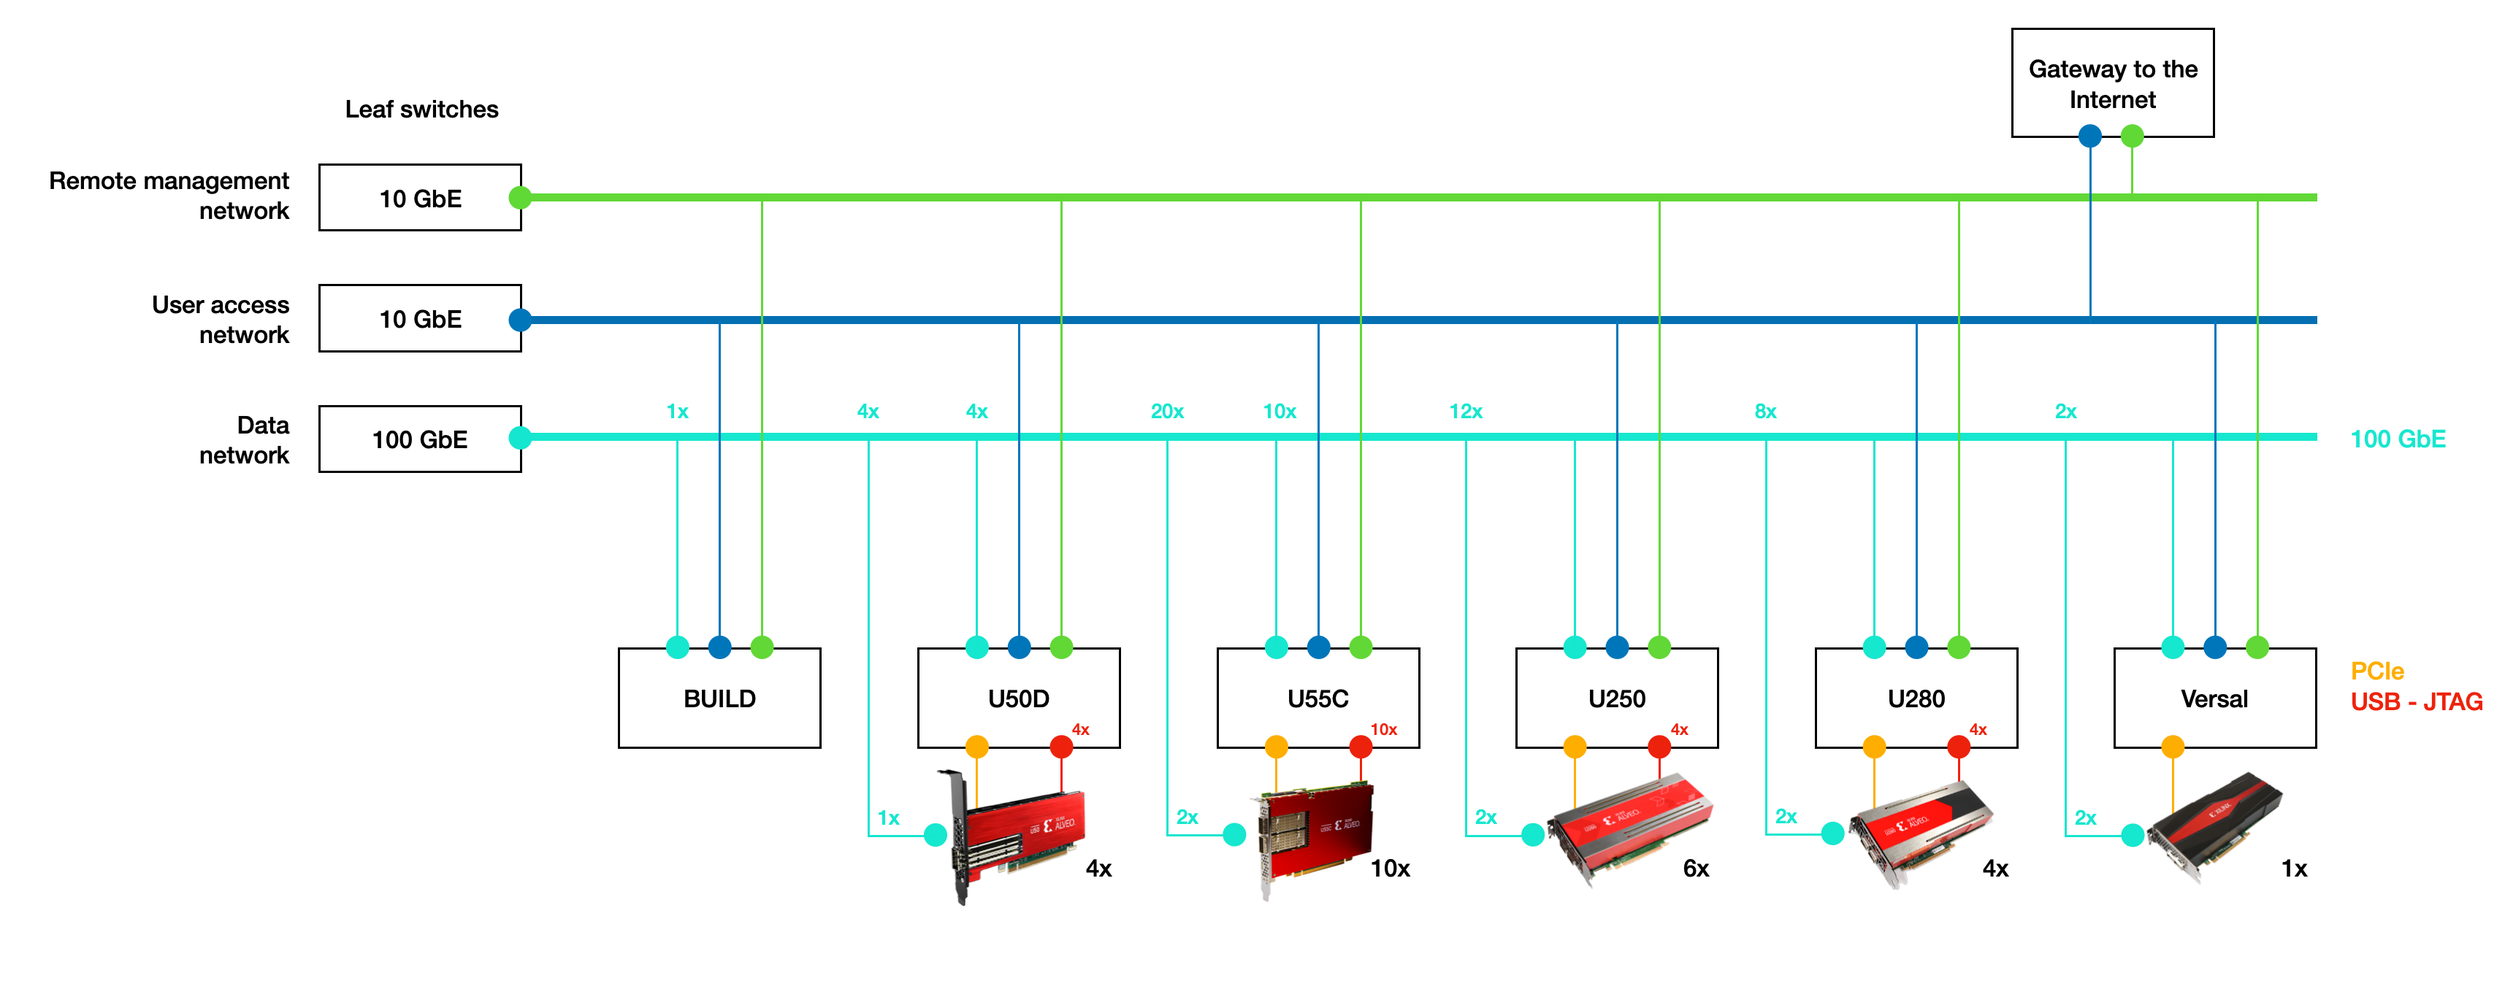
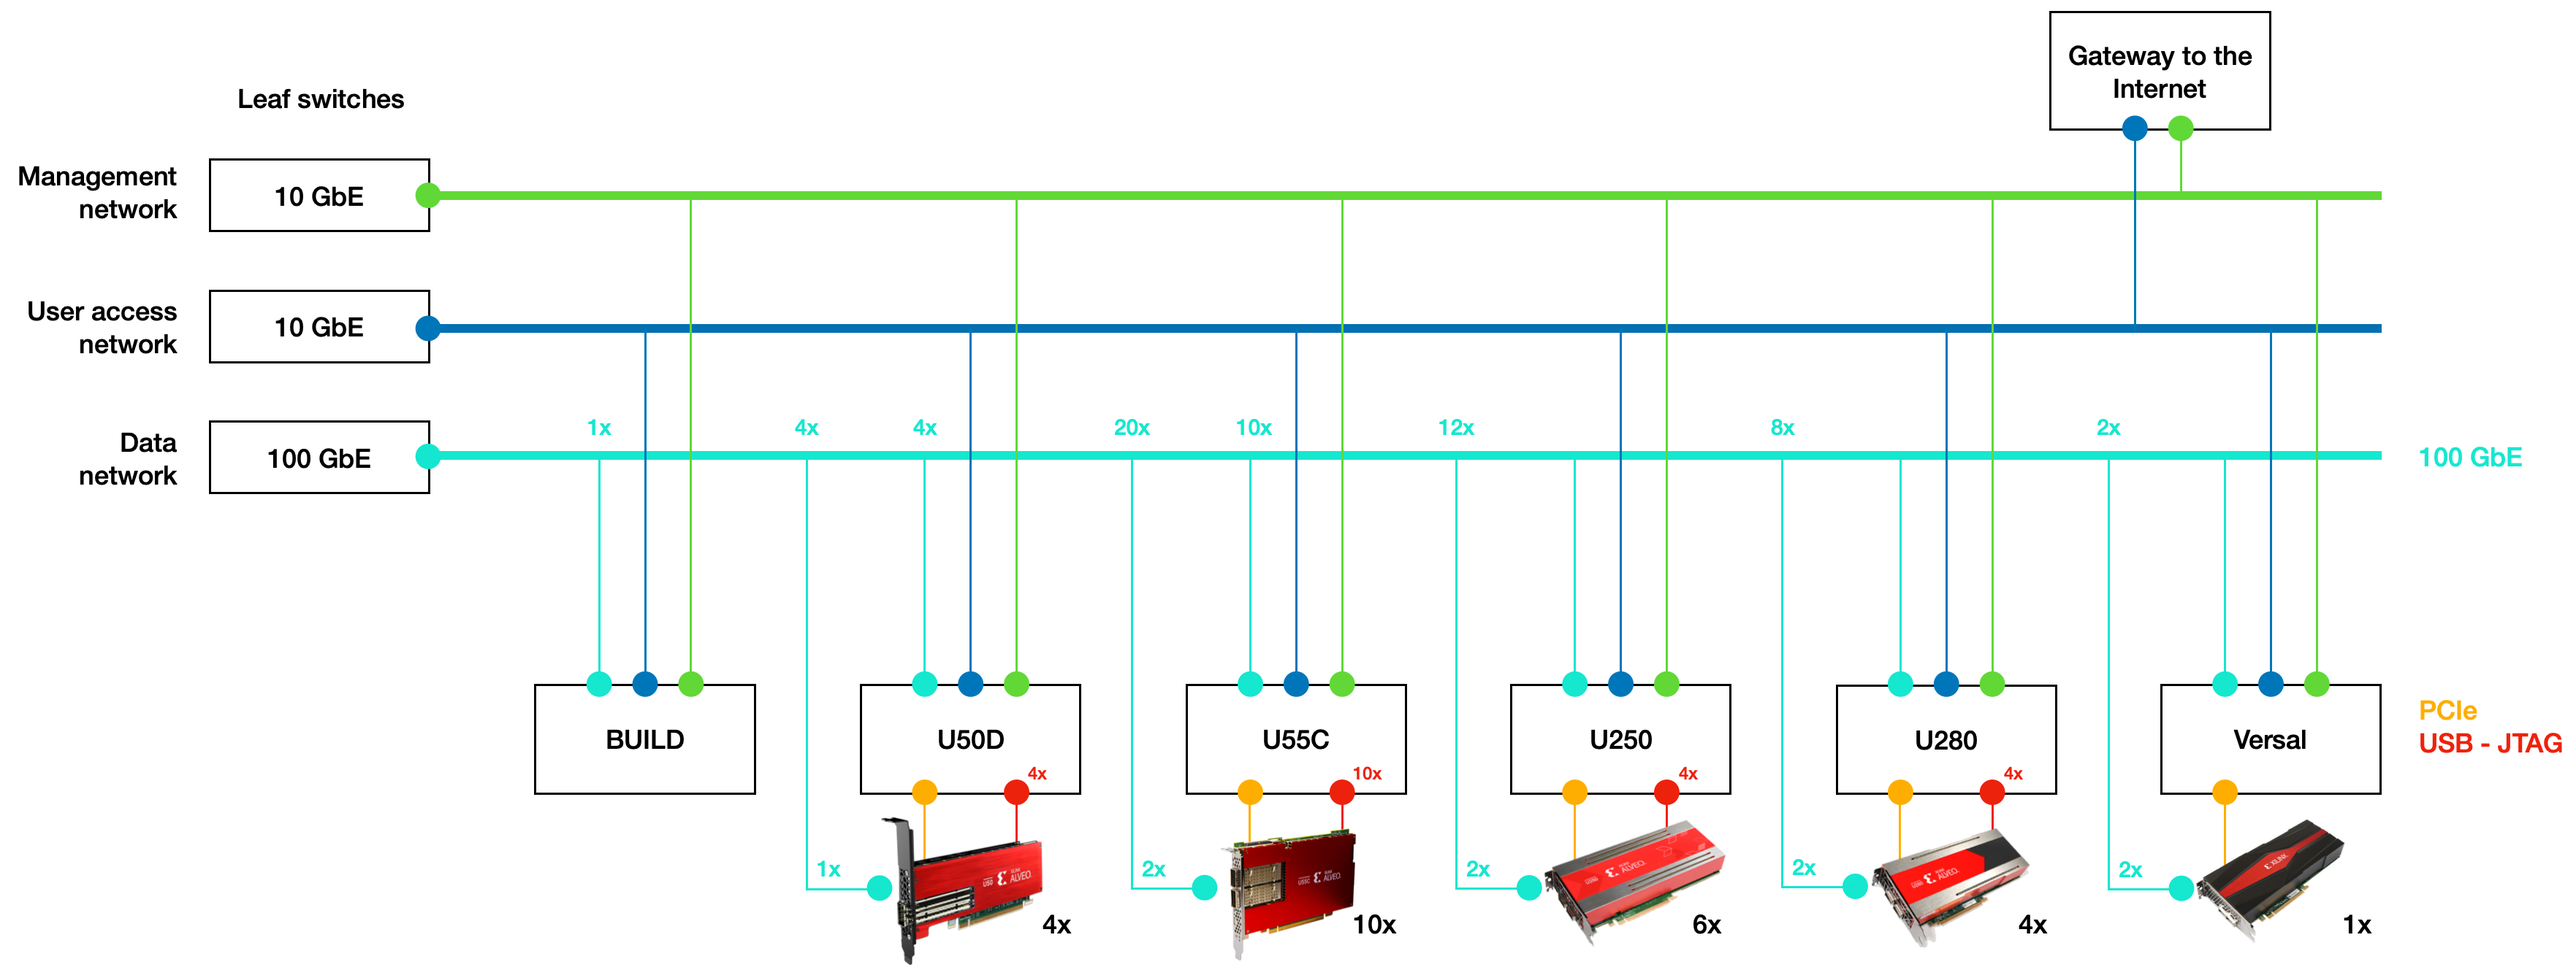
Update

diff --git a/docs/vocabulary.md b/docs/vocabulary.md
@@ -7,9 +7,7 @@
 # Vocabulary
 
 ## Agile 
-Agile is an iterative project management and software development approach that helps teams deliver value to their customers faster and with fewer headaches. Instead of betting everything on a long-term launch, an agile team provides work in small but consumable increments. Requirements, plans, and results are evaluated continuously, so teams have a natural mechanism for responding to change quickly. Frameworks such as Scrum or [Shape up](https://basecamp.com/shapeup) are examples of Agile methodologies. <!-- https://www.atlassian.com/agile -->
-
-### Shape up
+Agile is an iterative project management and software development approach that helps teams deliver value to their customers faster and with fewer headaches. Instead of betting everything on a long-term launch, an agile team provides work in small but consumable increments. Requirements, plans, and results are evaluated continuously, so teams have a natural mechanism for responding to change quickly. Frameworks such as [Shape up](https://basecamp.com/shapeup) or [DevOps](#devops) are considered part of Agile methodologies. <!-- https://www.atlassian.com/agile -->
 
 ## Ansible
 The [Red Hat Ansible Automation Platform](https://www.ansible.com) is an orchestrated and open-source tool for software provisioning, configuration management, and application-deployment. Ansible uses its own YAML-based declarative language enabling [infrastructure as code](#infrastructure-as-code). 
@@ -25,6 +23,8 @@ There are many tools that fulfill infrastructure automation capabilities and use
 
 ### Relation to DevOps
 IaC can be a key attribute of enabling best practices in [DevOps](#devops)–developers become more involved in defining configuration and Ops teams get involved earlier in the development process. Tools that utilize IaC bring visibility to the state and configuration of servers and ultimately provide the visibility to users within the enterprise, aiming to bring teams together to maximize their efforts.
+
+## Shape up
 
 ## Spine-leaf architecture 
 A spine-leaf architecture is data center network topology that consists of two switching layers—a spine and leaf. The leaf layer consists of access switches that aggregate traffic from servers and connect directly into the spine or network core. Spine switches interconnect all leaf switches in a full-mesh topology. <!-- https://www.arubanetworks.com/faq/what-is-spine-leaf-architecture/ -->

diff --git a/docs/infrastructure.md b/docs/infrastructure.md
@@ -132,7 +132,6 @@ The following figure and table give an overview of FSG HACC resources:
 *FSG HACC resources. On the FPGA/ACAP column, VU stands for [Virtex Ultrascale+](#virtex-ultrascale). Remember that each high-end server exposes **only one Xilinx accelerator card to the user.***
 
 ## High-end servers
-
 ### AMD EPYC
 EPYC is the world’s highest-performing x86 server processor with faster performance for cloud, enterprise, and HPC workloads. To learn more about it, please refer to the [AMD EPYC processors website](https://www.amd.com/en/processors/epyc-server-cpu-family) and its [data sheet.](https://www.amd.com/system/files/documents/amd-epyc-7003-series-datasheet.pdf)
 
@@ -158,8 +157,8 @@ For the **data network** connectivity, we are using a [spine-leaf architecture](
 
 On the server side, the CPU NICs are [ConnectX-5](https://www.nvidia.com/en-us/networking/ethernet/connectx-5/) adaptors. As shown in the first figure, only one of Mellanox’s cards interface is connected to the corresponding leaf switch (see [Known limitation](#known-limitations)), whereas both QSFP28 FPGA connectors are directly attached. 
 
-### Remote management network
-In addition to the data or high-speed 
+### Management network
+We refer to the management network as the infrastructure allowing our IT administrators to manage, deploy, update and monitor our cluster **remotely.**
 
 ### Access network
 In addition to the data or high-speed 
